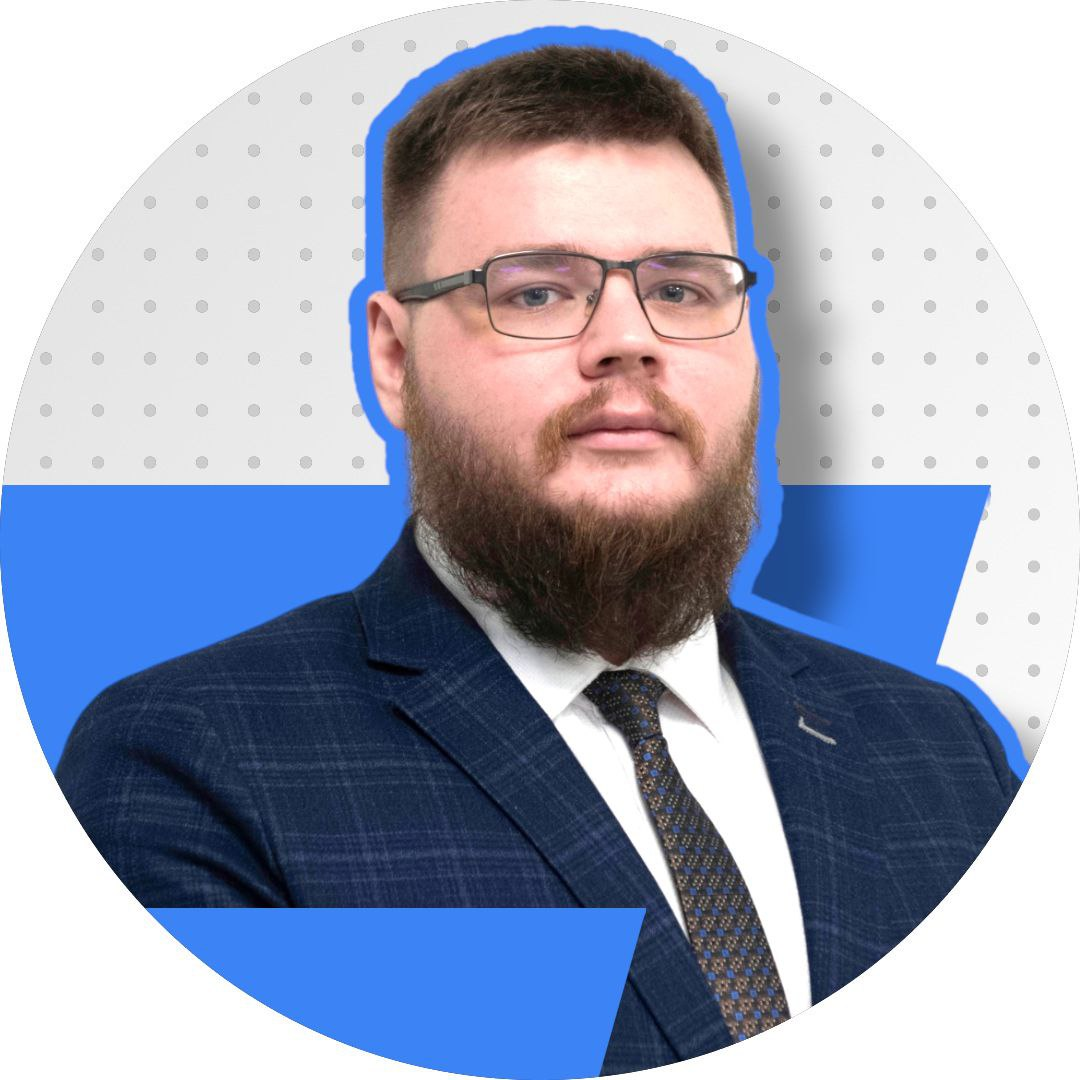
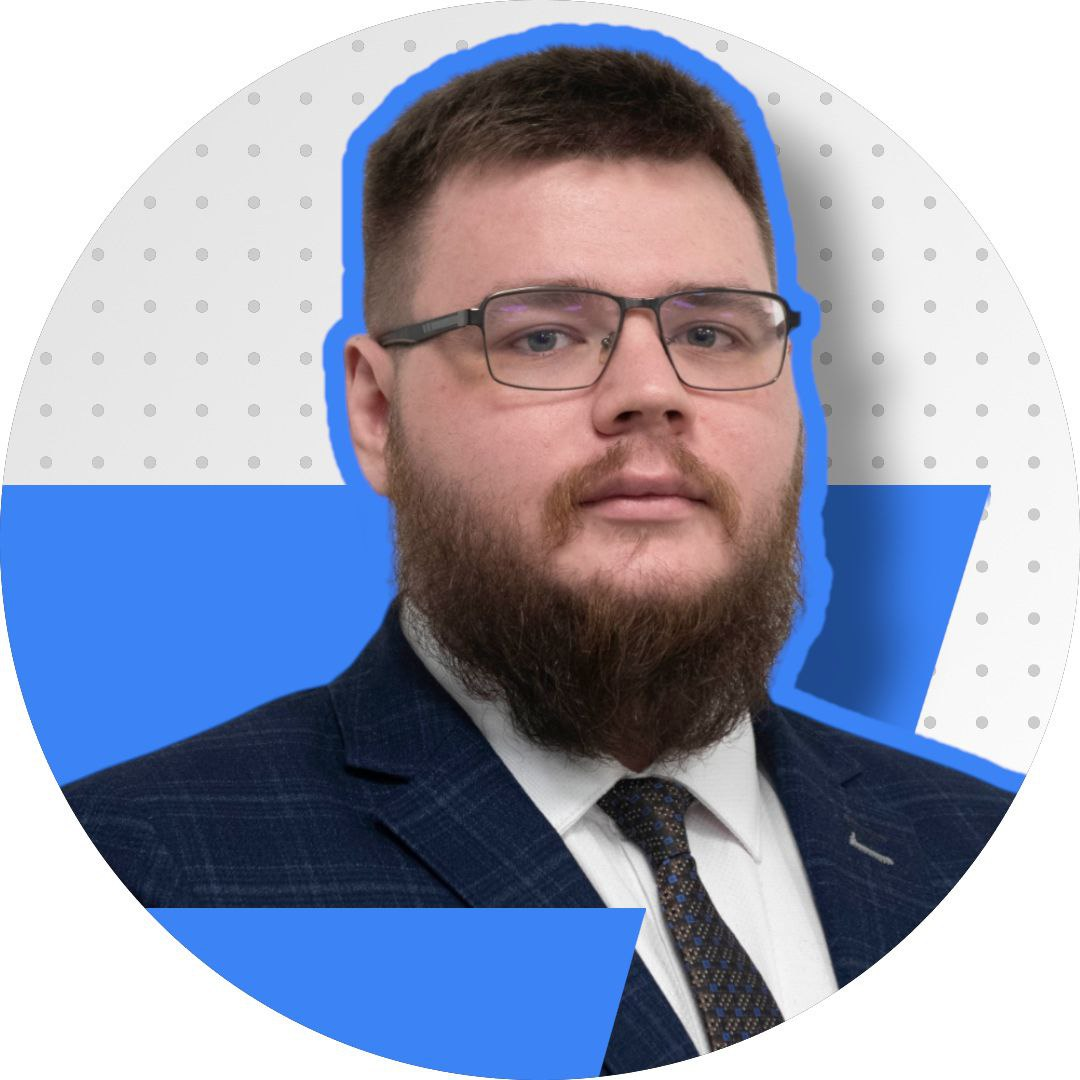
поработал над визуалом главной и поправил папку data после собрки проекта

diff --git a/src/pages/Index.tsx b/src/pages/Index.tsx
@@ -157,14 +157,22 @@ const Index = () => {
       </section>
 
       {/* Stats Section */}
-      <div className="border-b border-border bg-background/40 backdrop-blur-sm">
+      <div className="bg-background/40 backdrop-blur-sm">
           <div className="max-w-6xl mx-auto px-3 py-63">
-          <p className="text-sm font-medium text-muted-foreground uppercase tracking-widest">
+          <p className="text-sm font-medium text-muted-foreground uppercase tracking-widest ">
           Саратовская область
           </p>
         </div>
       </div>
-      <section className="border-y border-border bg-background relative z-10">
+      <section className="border-y border-border bg-background relative z-10"
+style={{ 
+    // 🔑 Явно устанавливаем начальные значения
+    backgroundColor: 'rgba(255, 255, 255, 0.2)',
+    backdropFilter: 'blur(10px)',
+    WebkitBackdropFilter: 'blur(5px)',
+    borderColor: 'rgba(0, 0, 0, 0)',
+  }}
+>
         <div className="max-w-6xl mx-auto px-6 py-12 grid grid-cols-2 md:grid-cols-4 gap-8">
           <div className="space-y-1">
             <p className="text-3xl font-semibold tracking-tight">120+</p>

diff --git a/src/vite-env.d.ts b/src/vite-env.d.ts
@@ -1,1 +1,38 @@
 /// <reference types="vite/client" />
+import { defineConfig } from 'vite'
+import react from '@vitejs/plugin-react'
+import { copyFileSync, mkdirSync } from 'fs'
+import { resolve } from 'path'
+
+export default defineConfig({
+  plugins: [
+    react(),
+    {
+      name: 'copy-data-folder',
+      apply: 'build',
+      writeBundle() {
+        // 🔑 Копируем папку data в dist после сборки
+        const srcDir = resolve(__dirname, 'src/data')
+        const destDir = resolve(__dirname, 'dist/data')
+        
+        // Создаём папку если её нет
+        mkdirSync(destDir, { recursive: true })
+        
+        // Копируем все файлы
+        const fs = require('fs')
+        const files = fs.readdirSync(srcDir)
+        
+        files.forEach((file: string) => {
+          const src = `${srcDir}/${file}`
+          const dest = `${destDir}/${file}`
+          copyFileSync(src, dest)
+        })
+        
+        console.log('✅ Data folder copied to dist')
+      },
+    },
+  ],
+  build: {
+    outDir: 'dist',
+  },
+})

diff --git a/src/components/AsciiBackground.tsx b/src/components/AsciiBackground.tsx
@@ -154,7 +154,7 @@ const AsciiBackground = ({
       particleSize: 0.8,
       scatterRange: 1.5,
       breathSpeed: 100,
-      pushForce: 0.115
+      pushForce: 0.515
     };
 
     let particleArray: any[] = [];
